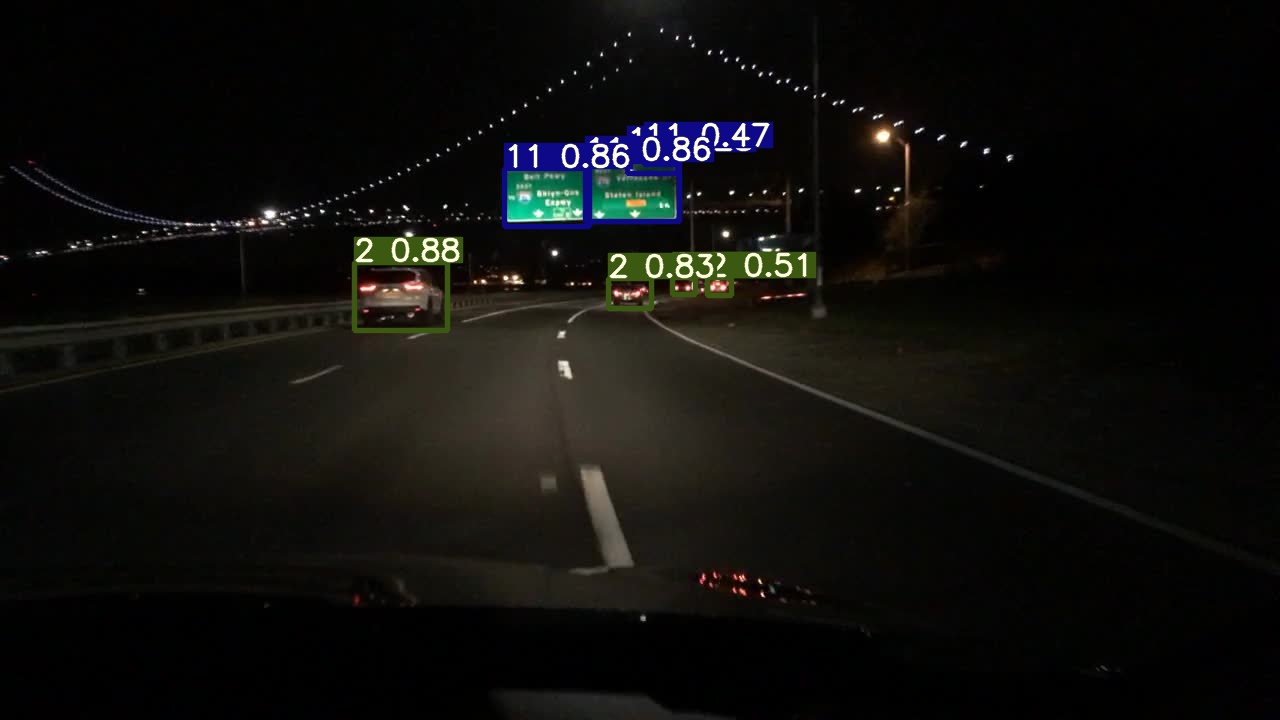
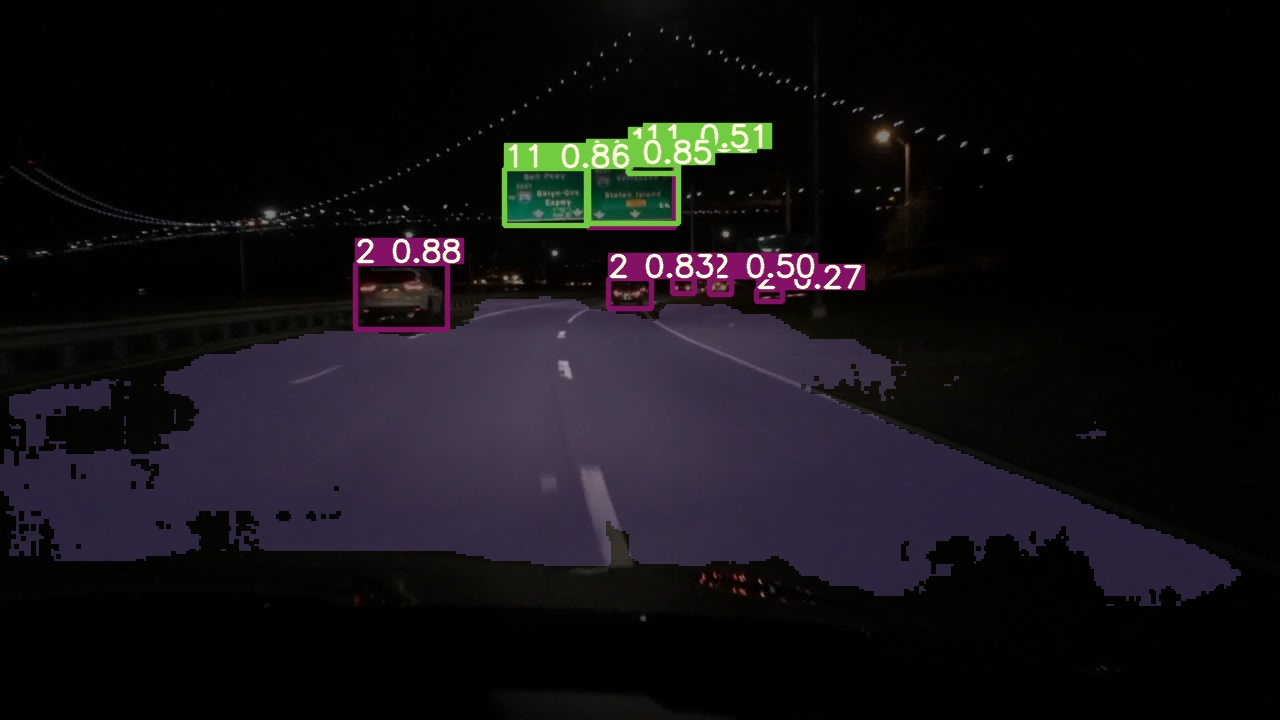
test.py

diff --git a/tools/test.py b/tools/test.py
@@ -1,2 +1,135 @@
+import argparse
+import os, sys
+BASE_DIR = os.path.dirname(os.path.dirname(os.path.abspath(__file__)))
+sys.path.append(BASE_DIR)
 
+import pprint
+import torch
+import torch.nn.parallel
+import torch.backends.cudnn as cudnn
+import torch.optim
+import torch.utils.data
+import torch.utils.data.distributed
+import torchvision.transforms as transforms
+import numpy as np
+from lib.utils import DataLoaderX
+from tensorboardX import SummaryWriter
+
+import lib.dataset as dataset
+from lib.config import cfg
+from lib.config import update_config
+from lib.core.loss import get_loss
+from lib.core.function import validate
+from lib.core.general import fitness
+from lib.models import get_net
+from lib.utils.utils import create_logger, select_device
+
+def parse_args():
+    parser = argparse.ArgumentParser(description='Test Multitask network')
+
+    # philly
+    parser.add_argument('--modelDir',
+                        help='model directory',
+                        type=str,
+                        default='')
+    parser.add_argument('--logDir',
+                        help='log directory',
+                        type=str,
+                        default='runs/')
+    parser.add_argument('--weights', nargs='+', type=str, default='/workspace/wh/projects/DaChuang/weights/epoch-78.pth', help='model.pth path(s)')
+    parser.add_argument('--conf-thres', type=float, default=0.25, help='object confidence threshold')
+    parser.add_argument('--iou-thres', type=float, default=0.45, help='IOU threshold for NMS')
+    args = parser.parse_args()
+
+    return args
+
+def main():
+    # set all the configurations
+    args = parse_args()
+    update_config(cfg, args)
+
+    # TODO: handle distributed training logger
+    # set the logger, tb_log_dir means tensorboard logdir
+
+    logger, final_output_dir, tb_log_dir = create_logger(
+        cfg, cfg.LOG_DIR, 'test')
+
+    logger.info(pprint.pformat(args))
+    logger.info(cfg)
+
+    writer_dict = {
+        'writer': SummaryWriter(log_dir=tb_log_dir),
+        'train_global_steps': 0,
+        'valid_global_steps': 0,
+    }
+
+    # bulid up model
+    # start_time = time.time()
+    print("begin to bulid up model...")
+    # DP mode
+    device = select_device(logger, batch_size=cfg.TEST.BATCH_SIZE_PER_GPU* len(cfg.GPUS)) if not cfg.DEBUG \
+        else select_device(logger, 'cpu')
+
+    model = get_net(cfg).to(device)
+    print("finish build model")
+    
+    # define loss function (criterion) and optimizer
+    criterion = get_loss(cfg, device=device)
+
+    # load checkpoint model
+
+    checkpoint_file = args.weights
+    logger.info("=> loading checkpoint '{}'".format(checkpoint_file))
+    checkpoint = torch.load(checkpoint_file)
+    model.load_state_dict(checkpoint['state_dict'])
+    logger.info("=> loaded checkpoint '{}' ".format(checkpoint_file))
+
+    model.gr = 1.0
+    model.nc = 13
+    print('bulid model finished')
+
+    print("begin to load data")
+    # Data loading
+    normalize = transforms.Normalize(
+        mean=[0.485, 0.456, 0.406], std=[0.229, 0.224, 0.225]
+    )
+
+    valid_dataset = eval('dataset.' + cfg.DATASET.DATASET)(
+        cfg=cfg,
+        is_train=False,
+        inputsize=cfg.MODEL.IMAGE_SIZE,
+        transform=transforms.Compose([
+            transforms.ToTensor(),
+            normalize,
+        ])
+    )
+
+    valid_loader = DataLoaderX(
+        valid_dataset,
+        batch_size=cfg.TEST.BATCH_SIZE_PER_GPU * len(cfg.GPUS),
+        shuffle=False,
+        num_workers=cfg.WORKERS,
+        pin_memory=cfg.PIN_MEMORY,
+        collate_fn=dataset.AutoDriveDataset.collate_fn
+    )
+    print('load data finished')
+
+    epoch = 0 #special for test
+    segment_results,detect_results, total_loss,maps, times = validate(
+        epoch,cfg, valid_loader, valid_dataset, model, criterion,
+        final_output_dir, tb_log_dir, writer_dict,
+        logger, device
+    )
+    fi = fitness(np.array(detect_results).reshape(1, -1))  #目标检测评价指标
+    msg =   'Test:    Loss({loss:.3f})\n' \
+            'Segment: Acc({seg_acc:.3f})    mIOU({seg_miou:.3f})    FIOU ({seg_fiou:.3f})\n' \
+            'Detect: P({p:.3f})  R({r:.3f})  mAP@0.5({map50:.3f})  mAP@0.5:0.95({map:.3f})'.format(
+                    loss=total_loss, seg_acc=segment_results[0],seg_miou=segment_results[2],seg_fiou=segment_results[3],
+                    p=detect_results[0],r=detect_results[1],map50=detect_results[2],map=detect_results[3])
+    logger.info(msg)
+    print("test finish")
+
+
+if __name__ == '__main__':
+    main()
     

diff --git a/lib/core/function.py b/lib/core/function.py
@@ -124,13 +124,11 @@ def validate(epoch,config, val_loader, val_dataset, model, criterion, output_dir
     # setting
     max_stride = 32
     weights = None
-    try:
-        save_dir = output_dir + os.path.sep + 'visualization'
-    except:
-        print(output_dir)
-        save_dir = "/workspace/wh/projects/DaChuang/runs/BddDataset/visualization"
+
+    save_dir = output_dir + os.path.sep + 'visualization'
     if not os.path.exists(save_dir):
         os.mkdir(save_dir)
+
     # print(save_dir)
     _, imgsz = [check_img_size(x, s=max_stride) for x in config.MODEL.IMAGE_SIZE] #imgsz is multiple of max_stride
     batch_size = config.TRAIN.BATCH_SIZE_PER_GPU * len(config.GPUS)
@@ -218,15 +216,15 @@ def validate(epoch,config, val_loader, val_dataset, model, criterion, output_dir
             mIoU_seg.update(mIoU,img.size(0))
             FWIoU_seg.update(FWIoU,img.size(0))
 
-            if training:
-                total_loss, head_losses = criterion((train_out,seg_out), target, model)   #Compute loss
-                losses.update(total_loss.item(), img.size(0))
+            
+            total_loss, head_losses = criterion((train_out,seg_out), target, model)   #Compute loss
+            losses.update(total_loss.item(), img.size(0))
 
             #NMS
             t = time_synchronized()
             target[0][:, 2:] *= torch.Tensor([width, height, width, height]).to(device)  # to pixels
             lb = [target[0][target[0][:, 0] == i, 1:] for i in range(nb)] if save_hybrid else []  # for autolabelling
-            output = non_max_suppression(inf_out, conf_thres=0.001, iou_thres=0.6, labels=lb)
+            output = non_max_suppression(inf_out, conf_thres= config.TEST.NMS_CONF_THRESHOLD, iou_thres=config.TEST.NMS_IOU_THRESHOLD, labels=lb)
             #output = non_max_suppression(inf_out, conf_thres=0.001, iou_thres=0.6)
             #output = non_max_suppression(inf_out, conf_thres=config.TEST.NMS_CONF_THRES, iou_thres=config.TEST.NMS_IOU_THRES)
             t_nms += time_synchronized() - t
@@ -416,7 +414,7 @@ def validate(epoch,config, val_loader, val_dataset, model, criterion, output_dir
 
     # Return results
     if not training:
-        s = f"\n{len(list(save_dir.glob('labels/*.txt')))} labels saved to {save_dir / 'labels'}" if save_txt else ''
+        s = f"\n{len(list(save_dir.glob('labels/*.txt')))} labels saved to {save_dir / 'labels'}" if config.TEST.SAVE_TXT else ''
         print(f"Results saved to {save_dir}{s}")
     model.float()  # for training
     maps = np.zeros(nc) + map

diff --git a/visualization/plot.py b/visualization/plot.py
@@ -22,28 +22,30 @@ def plot_img_and_mask(img, mask, index,epoch,save_dir):
     plt.savefig(save_dir+"/batch_{}_{}_seg.png".format(epoch,index))
 
 def show_seg_result(img, result, index, epoch, save_dir=None, palette=None,is_demo=False):
-        # img = mmcv.imread(img)
-        # img = img.copy()
-        # seg = result[0]
-        if palette is None:
-                palette = np.random.randint(
-                    0, 255, size=(2, 3))
-        palette[0] = 0
-        palette = np.array(palette)
-        assert palette.shape[0] == 2 # len(classes)
-        assert palette.shape[1] == 3
-        assert len(palette.shape) == 2
-        color_seg = np.zeros((result.shape[0], result.shape[1], 3), dtype=np.uint8)
-        for label, color in enumerate(palette):
-            color_seg[result == label, :] = color
-        # convert to BGR
-        color_seg = color_seg[..., ::-1]
+    # img = mmcv.imread(img)
+    # img = img.copy()
+    # seg = result[0]
+    if palette is None:
+        palette = np.random.randint(
+                0, 255, size=(2, 3))
+    palette[0] = 0
+    palette = np.array(palette)
+    assert palette.shape[0] == 2 # len(classes)
+    assert palette.shape[1] == 3
+    assert len(palette.shape) == 2
+    color_seg = np.zeros((result.shape[0], result.shape[1], 3), dtype=np.uint8)
+    for label, color in enumerate(palette):
+        color_seg[result == label, :] = color
+    # convert to BGR
+    color_seg = color_seg[..., ::-1]
 
-        img = img * 0.5 + color_seg * 0.5
-        img = img.astype(np.uint8)
+    img = img * 0.5 + color_seg * 0.5
+    img = img.astype(np.uint8)
 
-        if not is_demo:
-            cv2.imwrite(save_dir+"/batch_{}_{}_segresult.png".format(epoch,index), img)
+    if not is_demo:
+        cv2.imwrite(save_dir+"/batch_{}_{}_segresult.png".format(epoch,index), img)
+            
+    return img
 
 def plot_one_box(x, img, color=None, label=None, line_thickness=None):
     # Plots one bounding box on image img

diff --git a/tools/detect.py b/tools/detect.py
@@ -44,12 +44,8 @@ tf = transforms.Compose(
 
 def detect(cfg,opt):
 
-    global_rank = int(os.environ['RANK']) if 'RANK' in os.environ else -1
-
-    rank = global_rank
-
     logger, final_output_dir, tb_log_dir = create_logger(
-        cfg, cfg.LOG_DIR, 'train', rank=rank)
+        cfg, cfg.LOG_DIR, 'demo')
 
     device = select_device(logger,opt.device)
     if os.path.exists(opt.save_dir):  # output dir
@@ -90,6 +86,7 @@ def detect(cfg,opt):
         # Inference
         t1 = time_synchronized()
         #print(img.size())
+        print(img.shape)
         det_out, seg_out= model(img)
         inf_out,train_out = det_out
         t2 = time_synchronized()
@@ -108,17 +105,16 @@ def detect(cfg,opt):
         #img_seg = img_det.copy()
         save_path = str(opt.save_dir +'/'+ Path(path).name)
 
-        height, width = shapes[0]
+        _, _, height, width = img.shape
         pad_w, pad_h = shapes[1][1]
         pad_w = int(pad_w)
         pad_h = int(pad_h)
         _,predict=torch.max(seg_out, 1)
-        predict = predict[pad_h:height-pad_h, pad_w:width-pad_w]
-
+        predict = predict[:,pad_h:(height-pad_h),pad_w:width-pad_w]
         seg_mask = predict.float()
         seg_mask = tf(seg_mask.cpu())
         seg_mask = seg_mask.int().squeeze().cpu().numpy()
-        show_seg_result(img_det, seg_mask, _, _, is_demo=True)
+        img_det = show_seg_result(img_det, seg_mask, _, _, is_demo=True)
 
         if len(det):
             det[:,:4] = scale_coords(img.shape[2:],det[:,:4],img_det.shape).round()
@@ -145,6 +141,8 @@ def detect(cfg,opt):
     print('Results saved to %s' % Path(opt.save_dir))
     print('Done. (%.3fs)' % (time.time() - t0))
     print('inf : (%.4fs/frame)   nms : (%.4fs/frame)' % (inf_time.avg,nms_time.avg))
+
+
 
 
 if __name__ == '__main__':

diff --git a/lib/config/default.py b/lib/config/default.py
@@ -103,8 +103,8 @@ _C.TEST.MODEL_FILE = ''
 _C.TEST.SAVE_JSON = False
 _C.TEST.SAVE_TXT = False
 _C.TEST.PLOTS = True
-_C.TEST.NMS_CONF_THRES = 0.001
-_C.TEST.NMS_IOU_THRES = 0.6
+_C.TEST.NMS_CONF_THRESHOLD  = 0.001
+_C.TEST.NMS_IOU_THRESHOLD  = 0.6
 
 
 def update_config(cfg, args):
@@ -116,6 +116,14 @@ def update_config(cfg, args):
 
     if args.logDir:
         cfg.LOG_DIR = args.logDir
+    
+    if args.conf_thres:
+        cfg.TEST.NMS_CONF_THRESHOLD = args.conf_thres
+
+    if args.iou_thres:
+        cfg.TEST.NMS_IOU_THRESHOLD = args.iou_thres
+    
+
 
     # cfg.MODEL.PRETRAINED = os.path.join(
     #     cfg.DATA_DIR, cfg.MODEL.PRETRAINED

diff --git a/lib/core/loss.py b/lib/core/loss.py
@@ -122,10 +122,9 @@ class MultiHeadLoss(nn.Module):
         # bs = tobj.shape[0]  # batch size
         if cfg.TRAIN.FREEZE_SEG:
             lseg = 0 * lseg
-        else:
-            lbox = 0 * lbox
-            lobj = 0 * lobj
-            lcls = 0 * lcls
+            # lbox = 0 * lbox
+            # lobj = 0 * lobj
+            # lcls = 0 * lcls
 
         loss = lbox + lobj + lcls + lseg
         # loss = lseg

diff --git a/tools/1.py b/tools/1.py
@@ -1,11 +1,8 @@
-def a(num):
-    try:
-        a=1/num
-    except:
-        print("error")
-        return
-    print("ss")
+import torch
 
-if __name__ == '__main__':
-    a(0)
-    a(1)
+height, weight = 512, 512
+pad_h, pad_w = 112, 0
+predict = torch.randn(1,height,weight)
+print(predict.shape)
+predict = predict[:,pad_h:height-pad_h,pad_w:weight-pad_w]
+print(predict.shape)

diff --git a/lib/dataset/DemoDataset.py b/lib/dataset/DemoDataset.py
@@ -84,7 +84,7 @@ class LoadImages:  # for inference
             h0, w0 = img0.shape[:2]
 
         # Padded resize
-        img, ratio,pad = letterbox_for_img(img0, new_shape=self.img_size)
+        img, ratio,pad = letterbox_for_img(img0, new_shape=self.img_size,auto=False)
         h, w = img.shape[:2]
         shapes = (h0, w0), ((h / h0, w / w0), pad)
 
